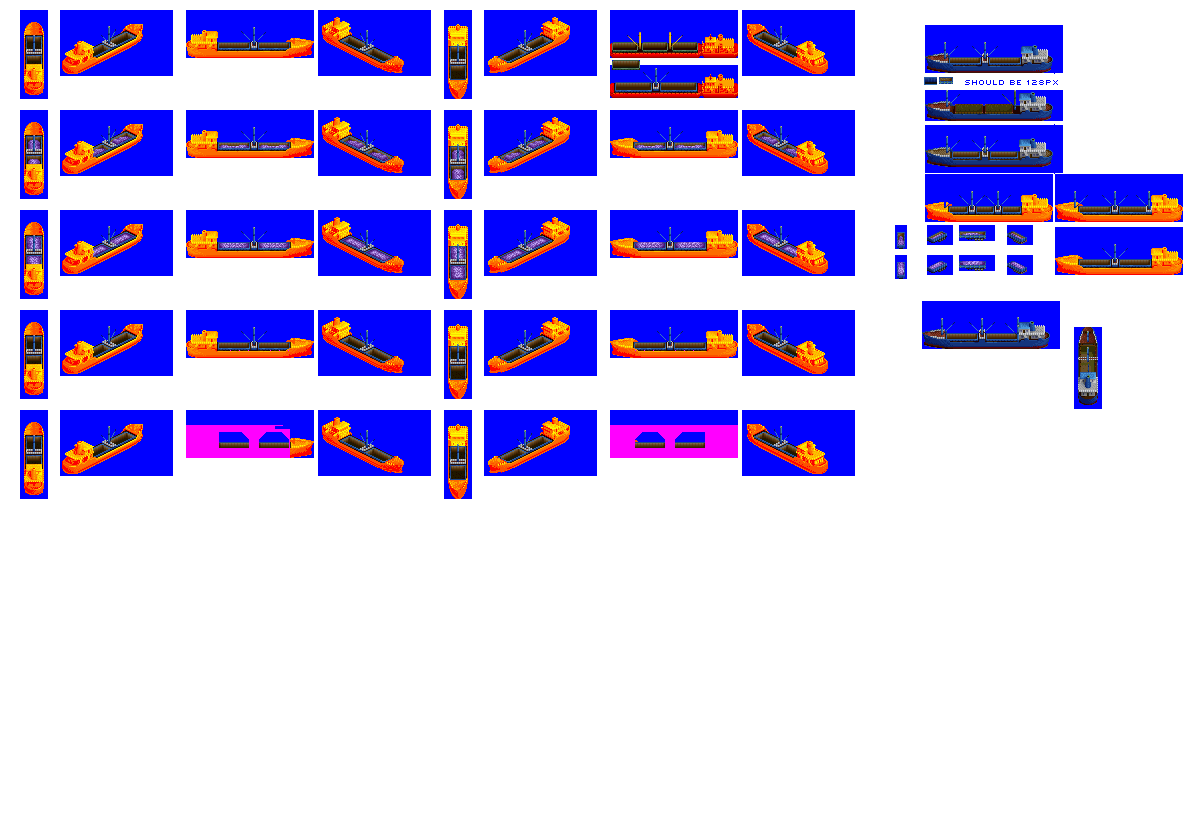
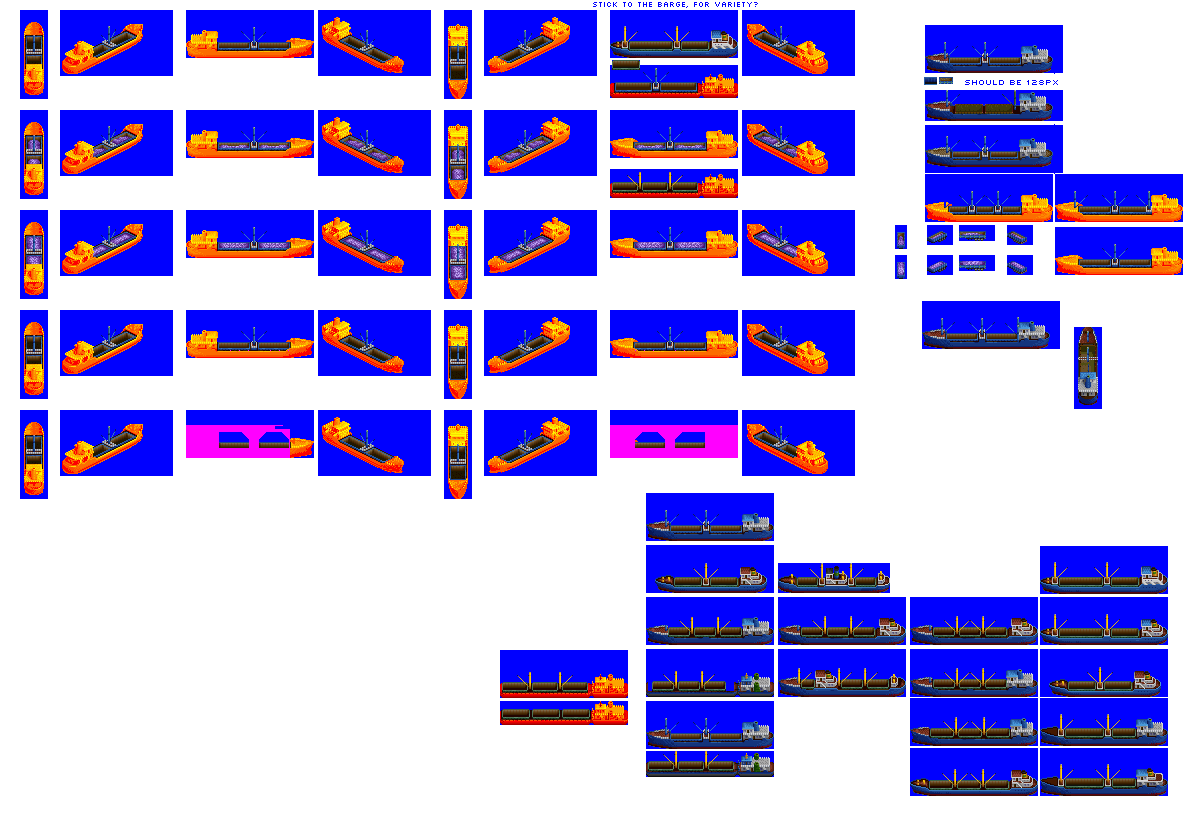
Change: WIP on Longstone freighter

Changed region(s): [[0.4008, 0.5793, 0.9867, 0.9756], [0.4933, 0.1829, 0.6167, 0.2439], [0.4933, 0.0305, 0.6167, 0.0915]]

diff --git a/src/vehicles/universal_freighter_F.py b/src/vehicles/universal_freighter_F.py
@@ -4,7 +4,7 @@ ship = UniversalFreighter(id='universal_freighter_F',
                           numeric_id=42,
                           name='Longstone [Freighter]',
                           subtype='F',
-                          hull='PushBargeHouseRear',
+                          hull='TempHouseNone',
                           fixed_run_cost_factor=3.5,
                           fuel_run_cost_factor=1.0,
                           intro_date=1870,
